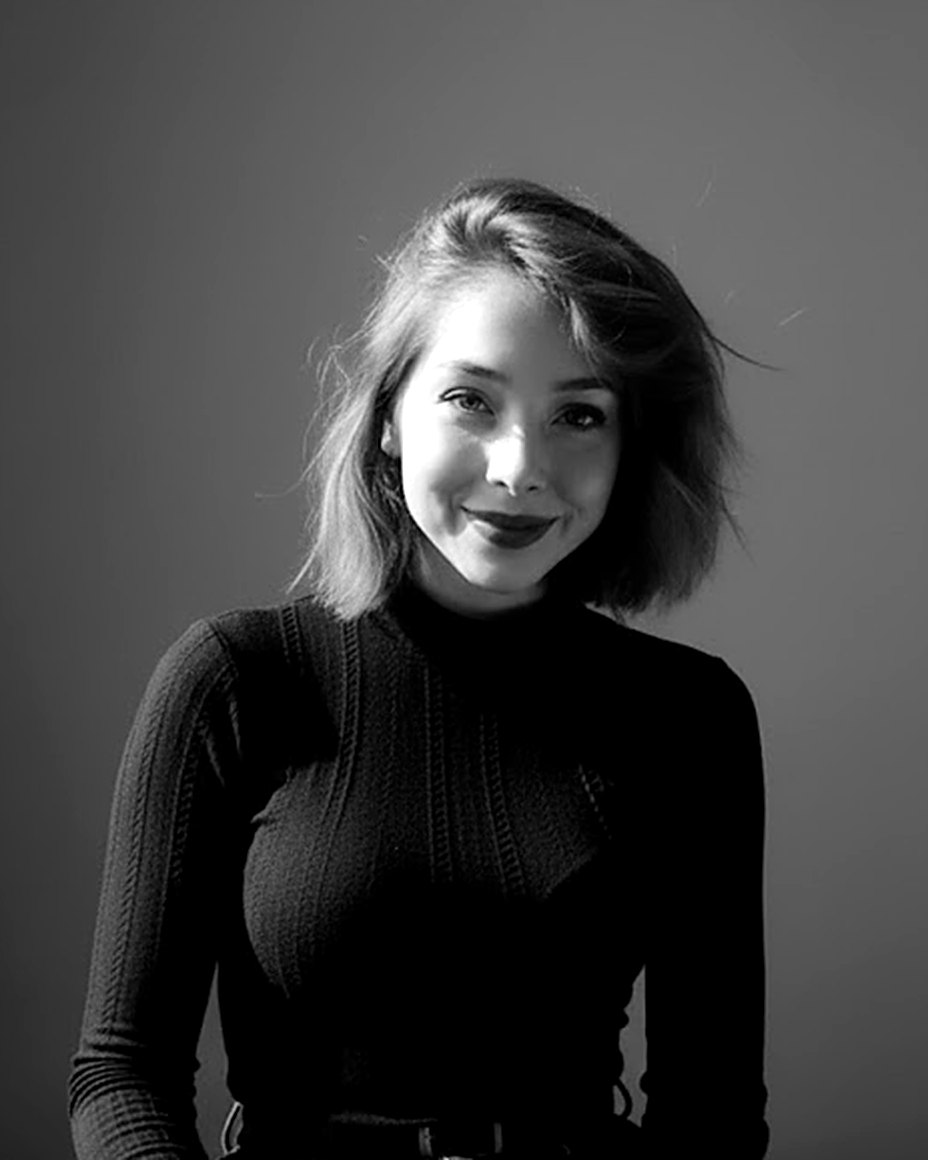
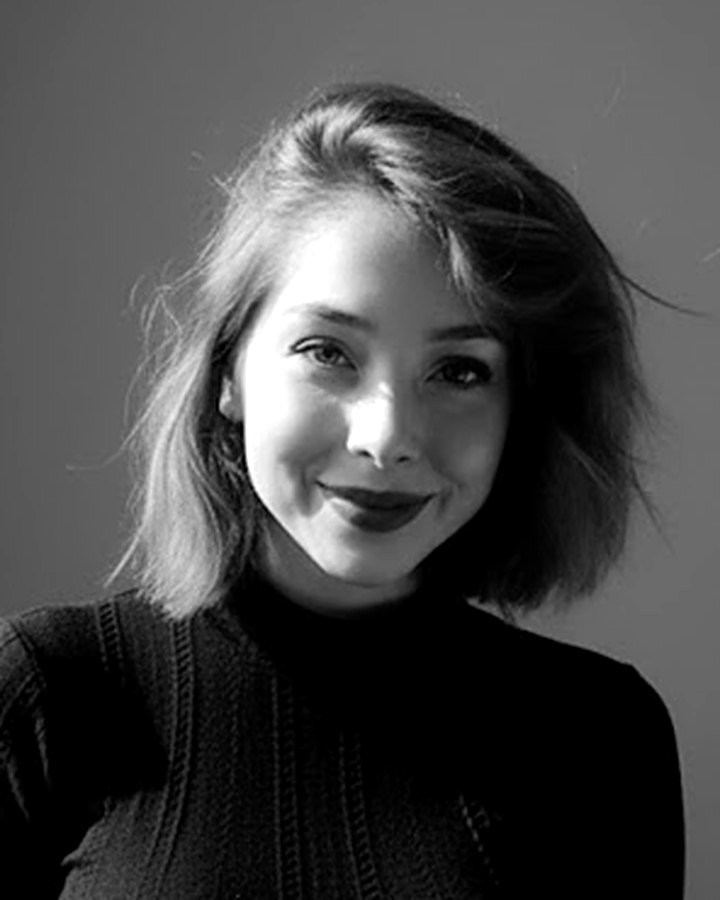
Retrato más cerrado (rostro y hombros) y más compacto en la portada

diff --git a/nintai.css b/nintai.css
@@ -183,3 +183,10 @@
 .mix li span { white-space: nowrap; }
 .nintai__kanji { white-space: nowrap; flex: none; }
 @media (max-width: 520px) { .nintai__brand { flex-direction: column; align-items: flex-start; gap: 14px; } }
+
+/* Retrato compacto: rostro y hombros, sin dominar la portada */
+.hero__grid { grid-template-columns: 1fr auto; gap: 64px; }
+.portrait { width: 300px; justify-self: end; }
+.portrait figcaption { left: auto; right: -14px; bottom: -18px; }
+@media (max-width: 1000px) { .portrait { width: 250px; } }
+@media (max-width: 860px) { .hero__grid { grid-template-columns: 1fr; gap: 40px; } .portrait { width: 200px; justify-self: start; order: -1; } .portrait figcaption { right: auto; left: 110px; bottom: -14px; white-space: nowrap; } }

diff --git a/index.html b/index.html
@@ -66,7 +66,7 @@
           </div>
         </div>
         <figure class="portrait">
-          <img src="img/jocelin.jpg" alt="Retrato de Jocelin en blanco y negro, sonriendo" width="928" height="1160">
+          <img src="img/jocelin.jpg" alt="Retrato de Jocelin en blanco y negro, sonriendo" width="720" height="900">
           <figcaption><span class="kanji" lang="ja">忍耐</span> la calma en la tormenta</figcaption>
         </figure>
       </div>
